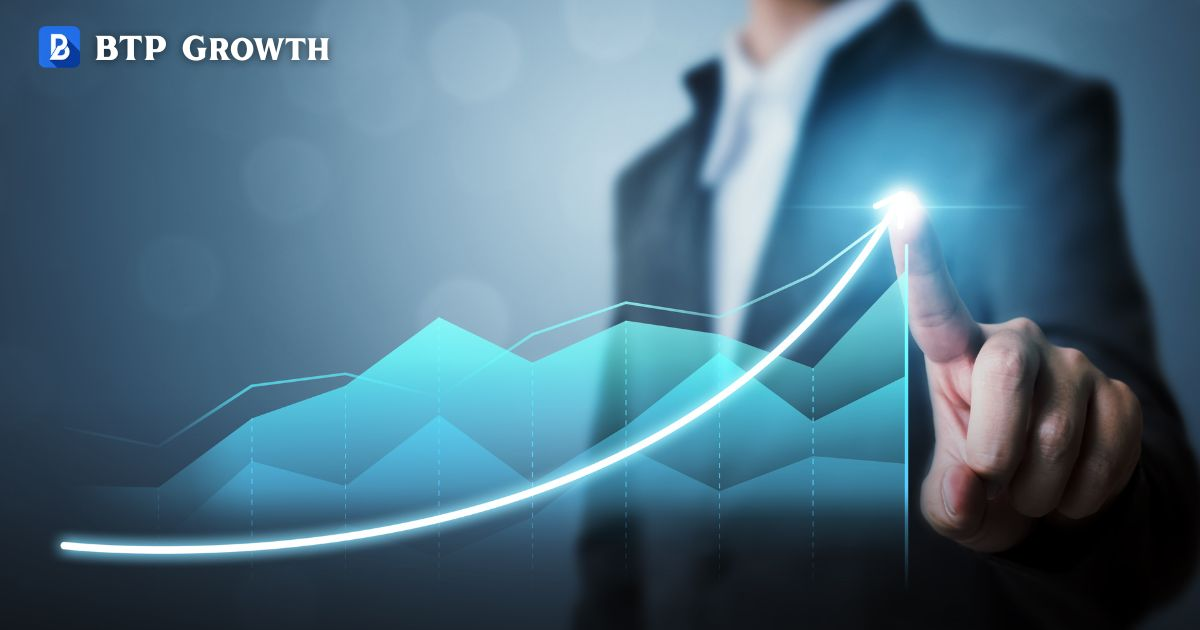
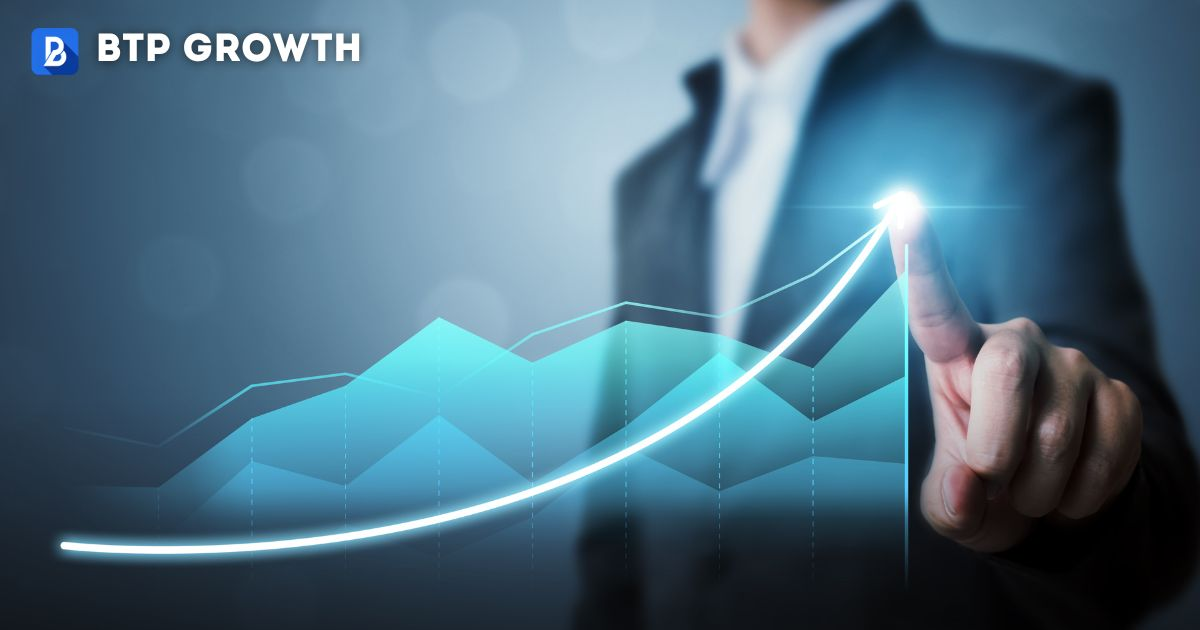
Change OG Details

Changed region(s): [[0.0, 0.0302, 0.3083, 0.1206]]

diff --git a/pages/index.tsx b/pages/index.tsx
@@ -16,15 +16,15 @@ export default function Home() {
           type: 'website',
           locale: 'en_US',
           url: siteUrl,
-          siteName: 'BTP Growth',
-          title: 'BTP Growth | AI-Powered Business Growth Agency',
+          siteName: 'BTP Growth Solutions',
+          title: 'BTP Growth Solutions | AI-Powered Business Growth Agency',
           description: 'Your trusted partner leveraging AI and marketing innovation to accelerate growth, streamline operations, and create smarter customer experiences — empowering your business to thrive in the digital era.',
           images: [
             {
               url: `${siteUrl}/images/og-image.jpg`,
               width: 1200,
               height: 630,
-              alt: 'BTP Growth | AI-Powered Business Growth Agency',
+              alt: 'BTP Growth Solutions | AI-Powered Business Growth Agency',
             },
           ],
         }}
